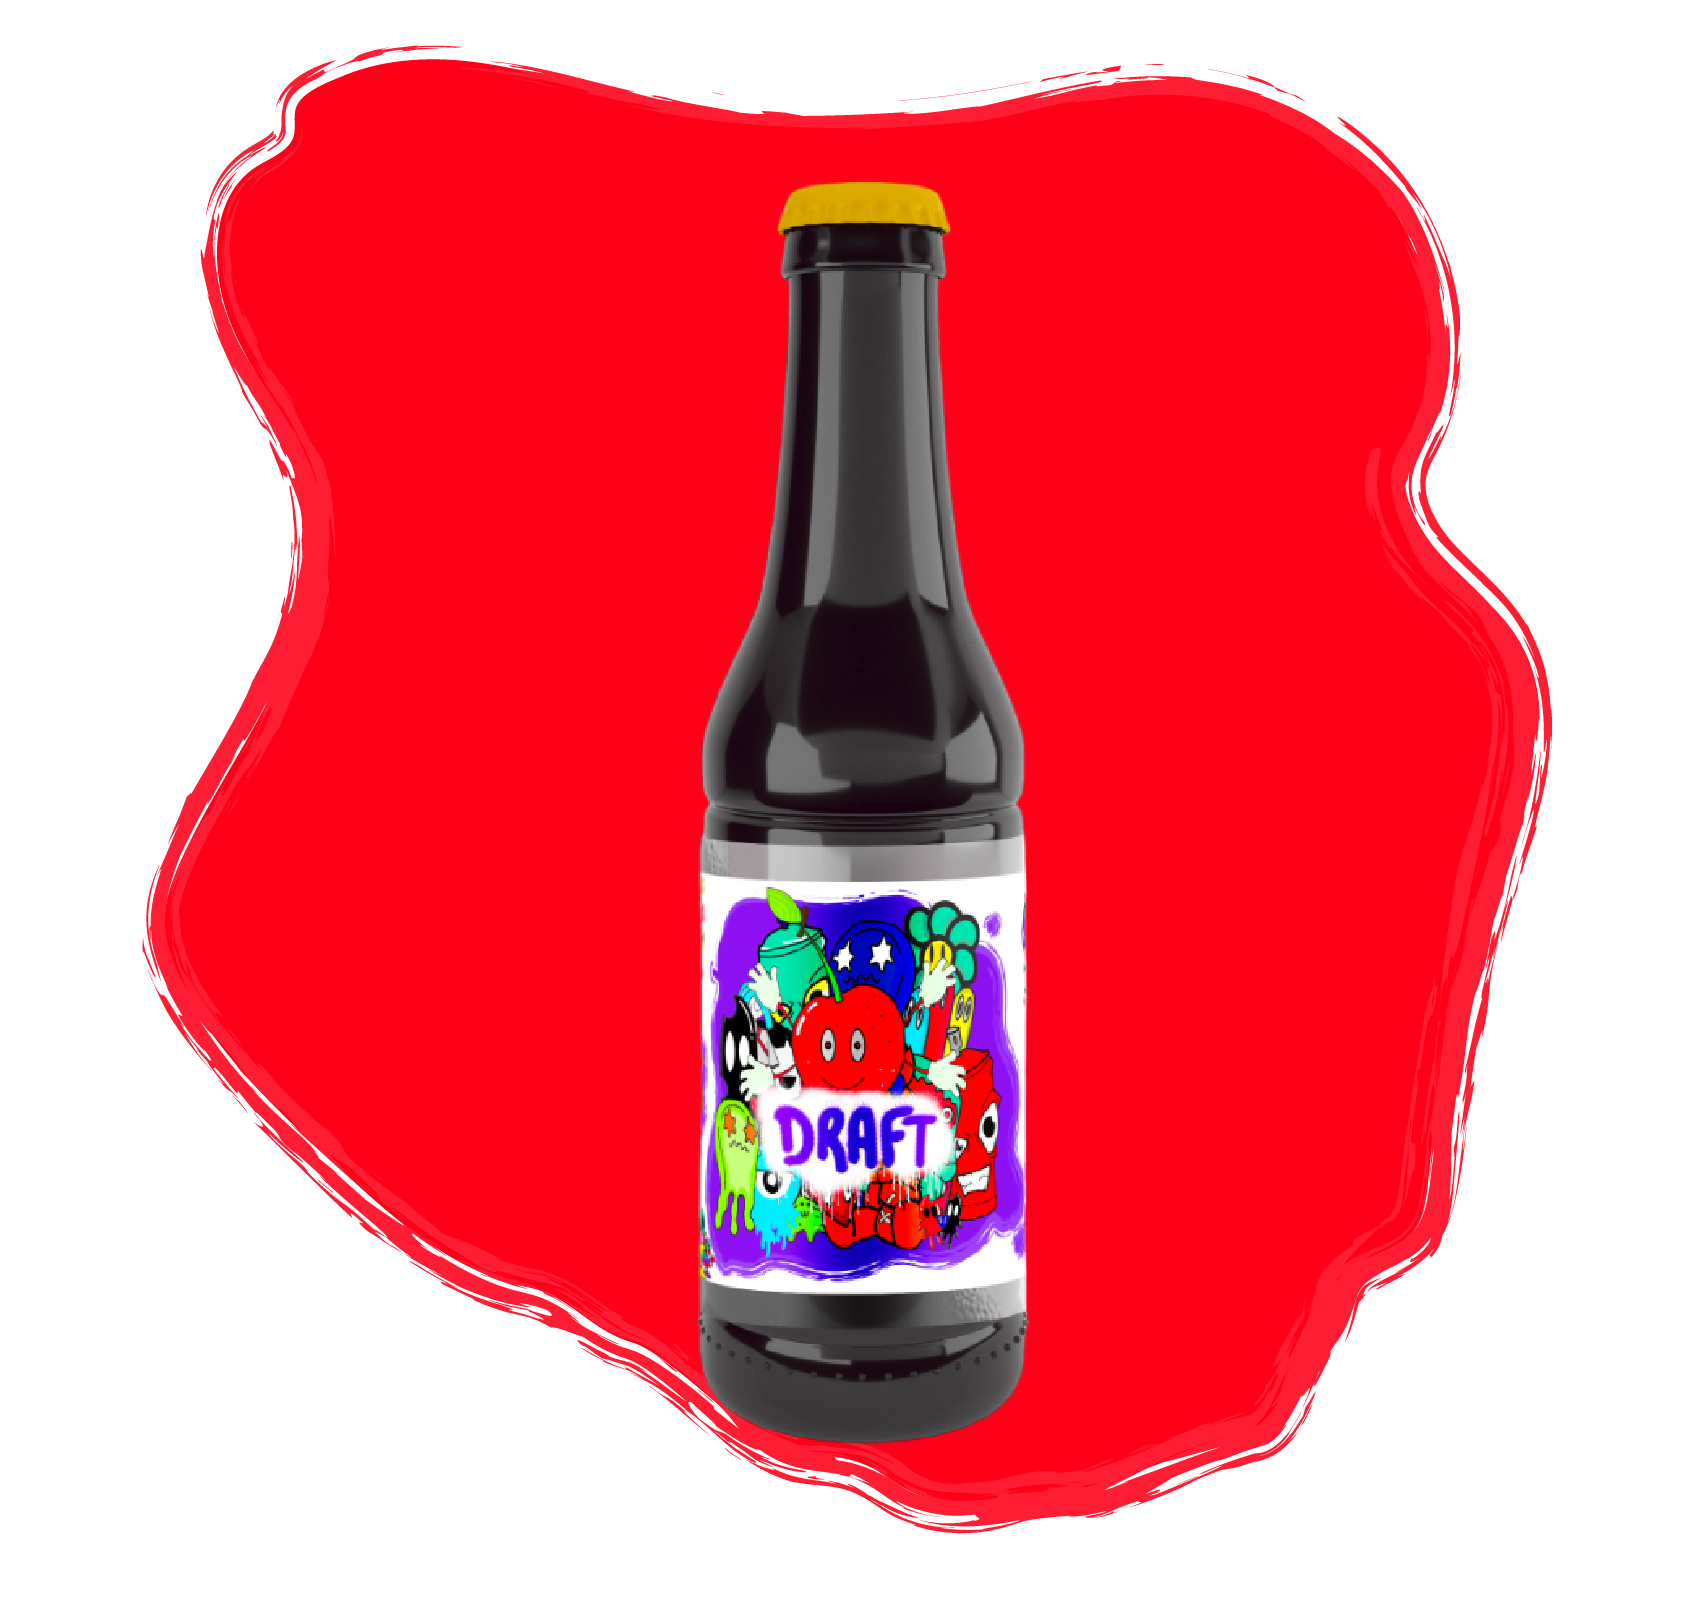
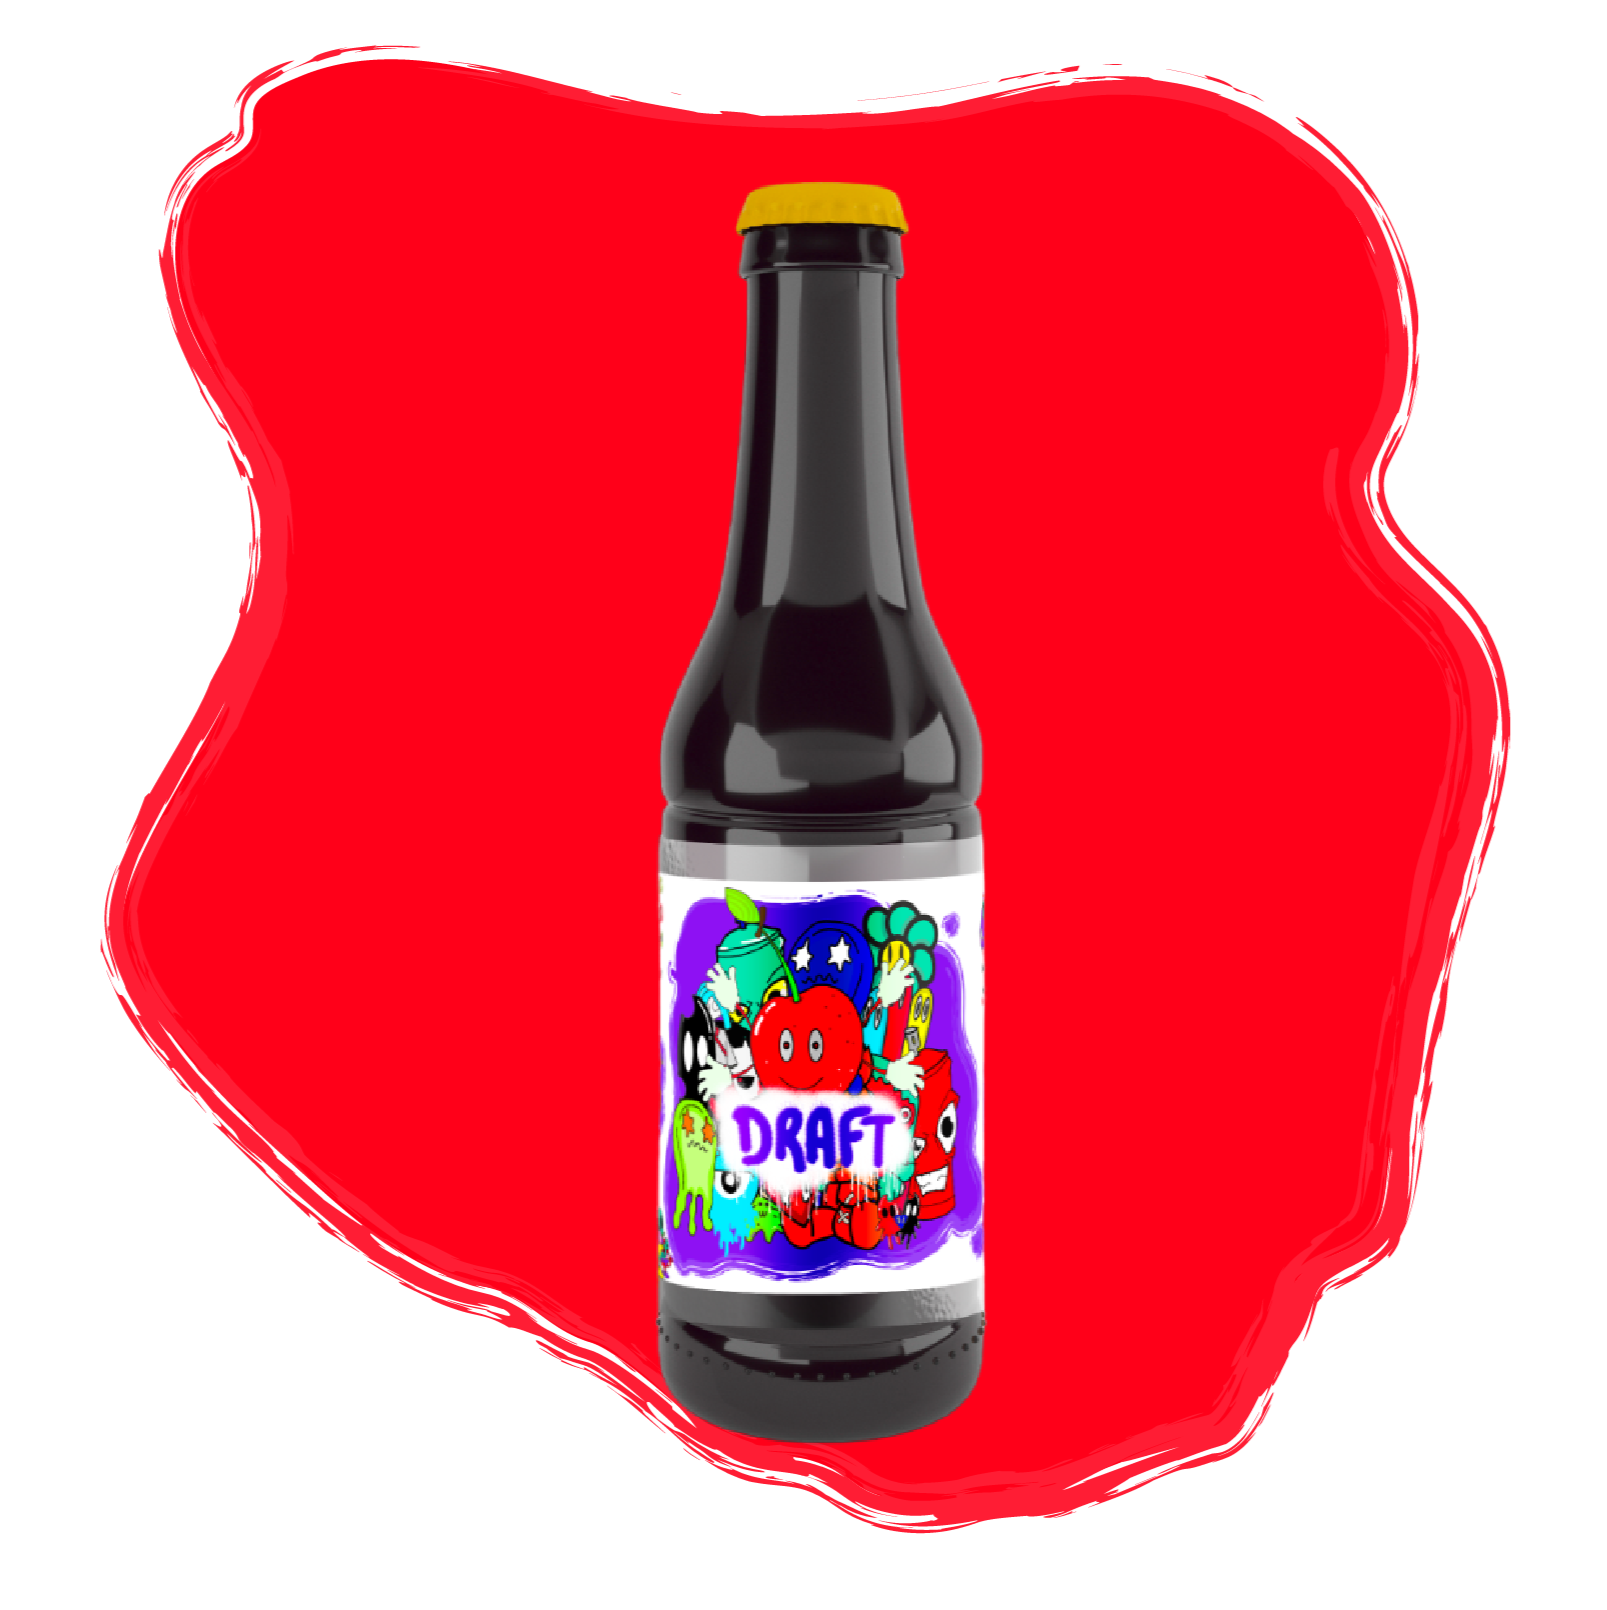
mj

diff --git a/public/css/produit.css b/public/css/produit.css
@@ -1,5 +1,5 @@
 .biere img{
-    width: 90%;
+    width: 85%;
     height: 50vh;
 }
 
@@ -27,7 +27,7 @@
 .container{
     display: flex;
     flex-wrap: wrap;
-
+    margin-top: 3vh;
 }
 
 .goodies img{

diff --git a/app/model/databaseco.php b/app/model/databaseco.php
@@ -2,9 +2,9 @@
 
 function getdbco(): PDO 
 {
-$dsn="mysql:host=localhost;dbname=cdce5547_draft;charset=utf8";
-$user="cdce5547_sae";
-$pass="MMI4ever@senart";
+$dsn="mysql:host=localhost;dbname=draft;charset=utf8";
+$user="root";
+$pass="";
     
     try{
         
